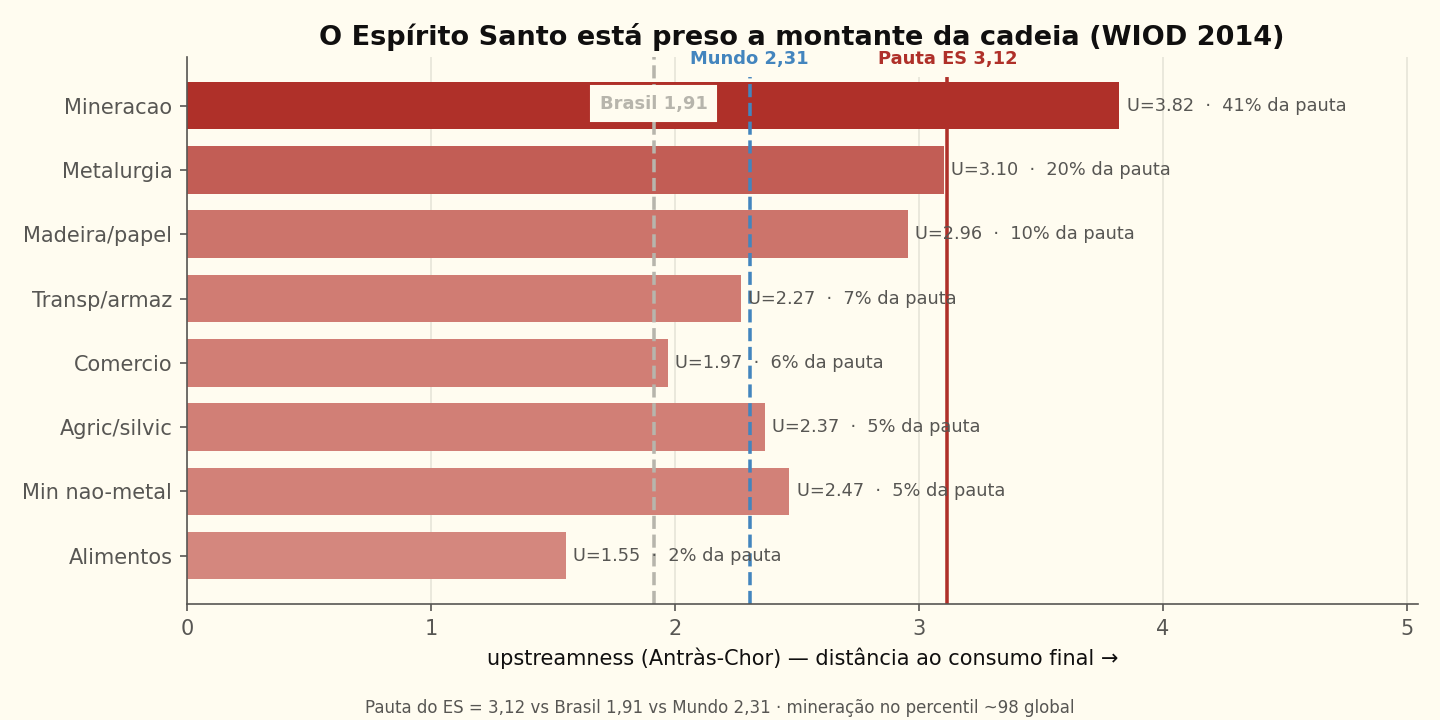
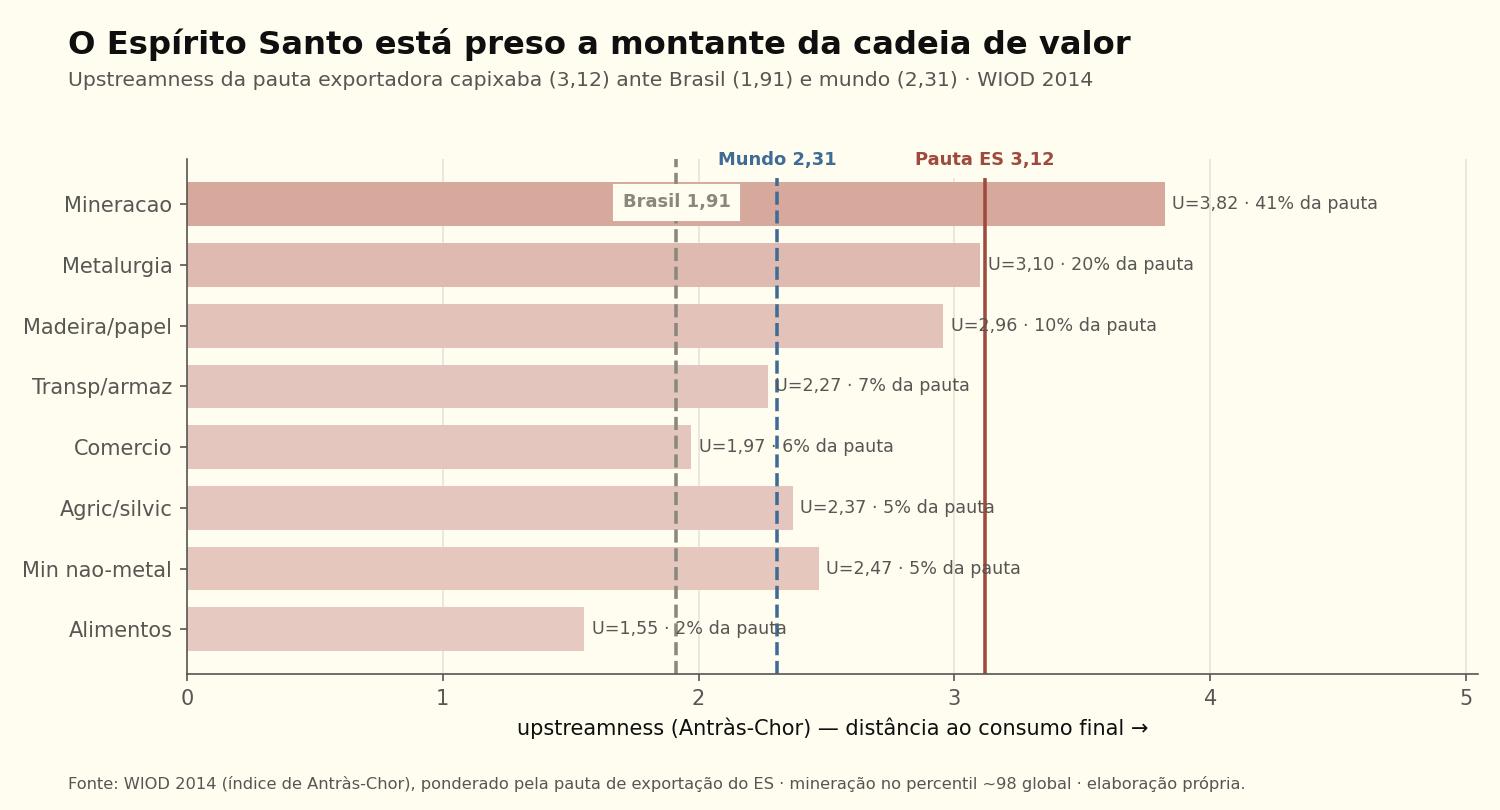
figs: padrao Nexo suave em todas as figuras (paleta Flexoki suave + manchete/dek/fonte)
estilo.py ganha paleta suave NODE/FLOW/TXT por papel e helper nexo() (titulo+dek a esquerda, fonte ao rodape). 03/05/09 re-renderizadas com pasteis suaves, rotulos coloridos por papel e chave de cores na fonte; manchetes declarativas. Consistencia total com o Sankey.

diff --git a/pesquisa/03_fig_spillover.py b/pesquisa/03_fig_spillover.py
@@ -1,48 +1,44 @@
 # -*- coding: utf-8 -*-
-"""Figura: destino do spillover do ES (estados + macrorregião) — tema Flexoki."""
+"""Figura: destino do spillover do ES (estados + macrorregião) — padrão Nexo suave."""
 import os, csv
 import matplotlib; matplotlib.use("Agg")
 import matplotlib.pyplot as plt
 import estilo as st; st.apply()
 
 OUT = r"C:/Users/DELL/Documents/es-insumo-produto/pesquisa/outputs"
-rows = list(csv.DictReader(open(os.path.join(OUT, "es_spillover_destino.csv"), encoding="utf-8")))
-spill = {r["regiao"]: float(r["spillover_RS_mi"]) for r in rows}
+spill = {r["regiao"]: float(r["spillover_RS_mi"]) for r in
+         csv.DictReader(open(os.path.join(OUT, "es_spillover_destino.csv"), encoding="utf-8"))}
 total = sum(spill.values())
-
 NUCLEO = {"SP", "RJ"}; CLUSTER = {"MG", "SC", "PR", "RS", "GO", "MT", "MS"}
-def cor(uf):
-    if uf in NUCLEO: return st.C_NUCLEO
-    if uf in CLUSTER: return st.C_CLUSTER
-    return st.C_RESTO_P
-MACRO = {"Norte": ["AC","AP","AM","PA","RO","RR","TO"],
-         "Nordeste": ["AL","BA","CE","MA","PB","PE","PI","SE","RN"],
-         "Centro-Oeste": ["DF","GO","MT","MS"], "Sudeste\n(ex-ES)": ["MG","RJ","SP"],
-         "Sul": ["PR","SC","RS"]}
+def role(uf): return "NUC" if uf in NUCLEO else ("CLU" if uf in CLUSTER else "RES")
+MACRO = {"Norte": ["AC", "AP", "AM", "PA", "RO", "RR", "TO"],
+         "Nordeste": ["AL", "BA", "CE", "MA", "PB", "PE", "PI", "SE", "RN"],
+         "Centro-Oeste": ["DF", "GO", "MT", "MS"], "Sudeste (ex-ES)": ["MG", "RJ", "SP"],
+         "Sul": ["PR", "SC", "RS"]}
+MROLE = {"Sudeste (ex-ES)": "NUC", "Sul": "CLU", "Nordeste": "RES", "Centro-Oeste": "RES", "Norte": "RES"}
 
 top = sorted(spill.items(), key=lambda kv: kv[1], reverse=True)[:10][::-1]
 macro = sorted([(m, sum(spill[u] for u in ufs)) for m, ufs in MACRO.items()], key=lambda kv: kv[1])
 
-fig, (ax1, ax2) = plt.subplots(1, 2, figsize=(11, 4.5))
-fig.suptitle("Para onde vaza o multiplicador do Espírito Santo (2008)", fontsize=14)
-
+fig, (ax1, ax2) = plt.subplots(1, 2, figsize=(11, 5.2))
 labels = [k for k, _ in top]; vals = [v/total*100 for _, v in top]
-ax1.barh(labels, vals, color=[cor(k) for k in labels], height=0.74)
-for i, v in enumerate(vals):
-    ax1.text(v+0.4, i, f"{v:.1f}%", va="center", fontsize=8.5, color=st.INK_SOFT)
-ax1.set_xlabel("% do spillover do ES"); ax1.set_title("Top destinos (estados)", fontsize=11)
-ax1.set_xlim(0, max(vals)*1.16); ax1.grid(axis="y", visible=False)
+ax1.barh(labels, vals, color=[st.NODE[role(k)] for k in labels], height=0.72)
+for i, (k, v) in enumerate(zip(labels, vals)):
+    ax1.text(v+0.5, i, f"{v:.0f}%", va="center", fontsize=8.6, color=st.TXT[role(k)])
+ax1.set_title("Por estado", loc="left", fontsize=10.5, color=st.INK)
+ax1.set_xlabel("% do spillover do ES"); ax1.set_xlim(0, max(vals)*1.16); ax1.grid(axis="y", visible=False)
 
 ml = [m for m, _ in macro]; mv = [v/total*100 for _, v in macro]
-mc = [st.C_NUCLEO if "Sudeste" in m else (st.C_CLUSTER if m == "Sul" else st.C_RESTO_P) for m in ml]
-ax2.barh(ml, mv, color=mc, height=0.66)
-for i, v in enumerate(mv):
-    ax2.text(v+0.6, i, f"{v:.1f}%", va="center", fontsize=8.5, color=st.INK_SOFT)
-ax2.set_xlabel("% do spillover do ES"); ax2.set_title("Por macrorregião", fontsize=11)
-ax2.set_xlim(0, max(mv)*1.16); ax2.grid(axis="y", visible=False)
+ax2.barh(ml, mv, color=[st.NODE[MROLE[m]] for m in ml], height=0.6)
+for i, (m, v) in enumerate(zip(ml, mv)):
+    ax2.text(v+0.7, i, f"{v:.0f}%", va="center", fontsize=8.6, color=st.TXT[MROLE[m]])
+ax2.set_title("Por macrorregião", loc="left", fontsize=10.5, color=st.INK)
+ax2.set_xlabel("% do spillover do ES"); ax2.set_xlim(0, max(mv)*1.16); ax2.grid(axis="y", visible=False)
 
-fig.text(0.5, 0.01, "Sudeste (ex-ES) absorve 65% do spillover · feedback de volta ao ES ≈ 0,3%",
-         ha="center", fontsize=8.6, color=st.C_NUCLEO)
-fig.tight_layout(rect=[0, 0.04, 1, 0.95])
+st.nexo(fig, "O Sudeste absorve dois terços do que vaza do Espírito Santo",
+        "Destino do spillover de produção do ES, por estado e macrorregião · MIP inter-regional 2008",
+        "Fonte: MIP inter-regional ES × Brasil (2008), modelo de Isard · elaboração própria. "
+        "Azul = núcleo SP/RJ · verde = cluster · cinza = resto.")
+fig.tight_layout(rect=[0, 0.06, 1, 0.84])
 fig.savefig(os.path.join(OUT, "es_spillover_destino.png"))
 print("ok es_spillover_destino.png")

diff --git a/pesquisa/05_fig_cluster.py b/pesquisa/05_fig_cluster.py
@@ -1,5 +1,5 @@
 # -*- coding: utf-8 -*-
-"""Figura: o ES e o cluster de estados dinâmicos (ex-núcleo) — tema Flexoki."""
+"""Figura: o ES no cluster de estados dinâmicos — padrão Nexo suave."""
 import os, csv
 import matplotlib; matplotlib.use("Agg")
 import matplotlib.pyplot as plt
@@ -9,40 +9,37 @@ OUT = r"C:/Users/DELL/Documents/es-insumo-produto/pesquisa/outputs"
 res = {r["metrica"]: float(r["valor_pct"]) for r in
        csv.DictReader(open(os.path.join(OUT, "cluster_resumo.csv"), encoding="utf-8"))}
 states = list(csv.DictReader(open(os.path.join(OUT, "cluster.csv"), encoding="utf-8")))
-CLUSTER = ["SC","PR","ES","MG","RS","GO","MT","MS"]; NUCLEO = ["SP","RJ"]
+CLUSTER = ["SC", "PR", "ES", "MG", "RS", "GO", "MT", "MS"]; NUCLEO = ["SP", "RJ"]
 
-fig, (ax1, ax2) = plt.subplots(1, 2, figsize=(11, 4.5))
-fig.suptitle("O Espírito Santo num cluster de estados dinâmicos (ex-núcleo SP/RJ)", fontsize=13)
+fig, (ax1, ax2) = plt.subplots(1, 2, figsize=(11, 5.2))
 
 # painel 1 — destino do spillover do ES
 labels = ["Núcleo\nSP+RJ", "Resto do\ncluster", "Resto\ndo Brasil"]
 vals = [res["es_spill_nucleo"], res["es_spill_cluster"], res["es_spill_resto"]]
-ax1.bar(labels, vals, color=[st.C_NUCLEO, st.C_CLUSTER, st.C_RESTO_P], width=0.62)
+ax1.bar(labels, vals, color=[st.NODE["NUC"], st.NODE["CLU"], st.NODE["RES"]], width=0.6)
 for i, v in enumerate(vals):
-    ax1.text(i, v+1, f"{v:.1f}%", ha="center", fontsize=11, fontweight="bold", color=st.INK)
-ax1.set_ylabel("% do spillover do ES"); ax1.set_title("Para onde escoa o encadeamento do ES", fontsize=11)
-ax1.set_ylim(0, max(vals)*1.2); ax1.grid(axis="x", visible=False)
-ax1.text(0.5, -0.32, "feedback de volta ao ES ≈ 0  →  encadeamento vai ao núcleo, valor não volta",
-         transform=ax1.transAxes, ha="center", fontsize=8.5, color=st.C_ES)
+    ax1.text(i, v+1, f"{v:.0f}%", ha="center", fontsize=11, fontweight="bold", color=st.INK)
+ax1.set_title("Para onde escoa o encadeamento do ES", loc="left", fontsize=10.5, color=st.INK)
+ax1.set_ylabel("% do spillover do ES"); ax1.set_ylim(0, max(vals)*1.2); ax1.grid(axis="x", visible=False)
 
-# painel 2 — abertura: cluster vs núcleo (ES destacado)
+# painel 2 — abertura: cluster vs núcleo (ES em destaque)
 rows = sorted([(s["estado"], float(s["vazamento_%"])) for s in states
                if s["estado"] in CLUSTER + NUCLEO], key=lambda kv: kv[1])
 ylab = [r[0] for r in rows]; yval = [r[1] for r in rows]
-def cor(uf): return st.C_ES if uf == "ES" else (st.C_NUCLEO if uf in NUCLEO else st.C_CLUSTER)
-ax2.barh(ylab, yval, color=[cor(u) for u in ylab], height=0.72)
+def papel(uf): return "ES" if uf == "ES" else ("NUC" if uf in NUCLEO else "CLU")
+ax2.barh(ylab, yval, color=[st.NODE[papel(u)] for u in ylab], height=0.72)
 for i, (lab, v) in enumerate(zip(ylab, yval)):
-    ax2.text(v+0.3, i, f"{v:.1f}%", va="center", fontsize=8.5,
-             color=(st.C_ES if lab == "ES" else st.INK_SOFT),
+    ax2.text(v+0.3, i, f"{v:.1f}%", va="center", fontsize=8.4, color=st.TXT[papel(lab)],
              fontweight=("bold" if lab == "ES" else "normal"))
 for t in ax2.get_yticklabels():
-    if t.get_text() == "ES": t.set_fontweight("bold"); t.set_color(st.C_ES)
-ax2.set_xlabel("vazamento médio do multiplicador (%)")
-ax2.set_title("Abertura: cluster (verde) vs núcleo (azul) — ES em destaque", fontsize=10.5)
-ax2.set_xlim(0, max(yval)*1.16); ax2.grid(axis="y", visible=False)
+    if t.get_text() == "ES": t.set_fontweight("bold"); t.set_color(st.TXT["ES"])
+ax2.set_title("Abertura: vazamento médio do multiplicador", loc="left", fontsize=10.5, color=st.INK)
+ax2.set_xlabel("%"); ax2.set_xlim(0, max(yval)*1.16); ax2.grid(axis="y", visible=False)
 
-fig.text(0.5, 0.01, "Cluster = 8 estados de crescimento sub-cobertos pelo mercado de capitais "
-         "(leitura Apex Partners) · cluster = 33,9% do PIB 2008", ha="center", fontsize=8.2, color=st.INK_SOFT)
-fig.tight_layout(rect=[0, 0.05, 1, 0.94])
+st.nexo(fig, "No cluster de estados dinâmicos, o ES escoa metade ao núcleo SP/RJ",
+        "Destino do spillover do ES e abertura comparada dos 8 estados do cluster · MIP inter-regional 2008",
+        "Fonte: MIP inter-regional ES × Brasil (2008) · cluster = leitura de mercado da Apex Partners (33,9% do PIB) · "
+        "vermelho = ES · azul = núcleo · verde = cluster · elaboração própria.")
+fig.tight_layout(rect=[0, 0.06, 1, 0.84])
 fig.savefig(os.path.join(OUT, "es_cluster.png"))
 print("ok es_cluster.png")

diff --git a/pesquisa/09_fig_upstreamness.py b/pesquisa/09_fig_upstreamness.py
@@ -1,5 +1,5 @@
 # -*- coding: utf-8 -*-
-"""Figura: o ES preso a montante da cadeia (upstreamness, WIOD 2014) — tema Flexoki."""
+"""Figura: o ES preso a montante da cadeia (upstreamness, WIOD 2014) — padrão Nexo suave."""
 import os, csv
 import matplotlib; matplotlib.use("Agg")
 import matplotlib.pyplot as plt
@@ -9,7 +9,7 @@ import estilo as st; st.apply()
 OUT = r"C:/Users/DELL/Documents/es-insumo-produto/pesquisa/outputs"
 _res = {r["metrica"]: float(r["valor"]) for r in
         csv.DictReader(open(os.path.join(OUT, "upstream_resumo.csv"), encoding="utf-8"))}
-BRASIL, MUNDO = _res["brasil_upstreamness"], _res["mundo_upstreamness"]
+BRASIL, MUNDO, PCT = _res["brasil_upstreamness"], _res["mundo_upstreamness"], _res["mineracao_percentil"]
 allrows = list(csv.DictReader(open(os.path.join(OUT, "es_upstreamness.csv"), encoding="utf-8")))
 rows = [r for r in allrows if r["setor_BR"] != "ES_PAUTA"]
 es_up = float([r for r in allrows if r["setor_BR"] == "ES_PAUTA"][0]["upstreamness"])
@@ -20,26 +20,26 @@ labels = [r["setor_BR"] for r in top]
 ups = [float(r["upstreamness"]) for r in top]
 shares = [float(r["share_export_%"]) for r in top]
 
-cmap = LinearSegmentedColormap.from_list("flexoki_red", [st.RED_P, st.RED])
+cmap = LinearSegmentedColormap.from_list("es_soft", ["#EDD9D3", st.NODE["ES"]])
 maxsh = max(shares)
-fig, ax = plt.subplots(figsize=(9.6, 4.8))
-ax.barh(labels, ups, color=[cmap(0.25 + 0.75*s/maxsh) for s in shares], height=0.74)
+fig, ax = plt.subplots(figsize=(10, 5.4))
+ax.barh(labels, ups, color=[cmap(0.3 + 0.7*s/maxsh) for s in shares], height=0.72)
 for i, (u, s) in enumerate(zip(ups, shares)):
-    ax.text(u+0.03, i, f"U={u:.2f}  ·  {s:.0f}% da pauta", va="center", fontsize=8.5, color=st.INK_SOFT)
+    ax.text(u+0.03, i, f"U={u:.2f} · {s:.0f}% da pauta".replace(".", ","), va="center",
+            fontsize=8.4, color=st.INK_SOFT)
 
 n = len(labels)
-for x, lab, col, ls, yo in [(BRASIL, f"Brasil {BRASIL:.2f}".replace(".", ","), st.GRAY, "--", -1.05),
-                            (MUNDO, f"Mundo {MUNDO:.2f}".replace(".", ","), st.C_NUCLEO, "--", -0.35),
-                            (es_up, f"Pauta ES {es_up:.2f}".replace(".", ","), st.C_ES, "-", -0.35)]:
+for x, lab, col, ls, yo in [(BRASIL, f"Brasil {BRASIL:.2f}".replace(".", ","), st.TXT["RES"], "--", -1.05),
+                            (MUNDO, f"Mundo {MUNDO:.2f}".replace(".", ","), st.TXT["NUC"], "--", -0.35),
+                            (es_up, f"Pauta ES {es_up:.2f}".replace(".", ","), st.TXT["ES"], "-", -0.35)]:
     ax.axvline(x, color=col, linestyle=ls, linewidth=1.7)
     ax.text(x, n+yo, lab, color=col, fontsize=8.6, ha="center", fontweight="bold", backgroundcolor=st.PAPER)
 
 ax.set_xlabel("upstreamness (Antràs-Chor) — distância ao consumo final →")
-ax.set_title("O Espírito Santo está preso a montante da cadeia (WIOD 2014)")
 ax.set_xlim(0, max(ups)*1.32); ax.grid(axis="y", visible=False)
-fig.text(0.5, 0.01, (f"Pauta do ES = {es_up:.2f} vs Brasil {BRASIL:.2f} vs Mundo {MUNDO:.2f} · "
-                     f"mineração no percentil ~{_res['mineracao_percentil']:.0f} global").replace(".", ","),
-         ha="center", fontsize=8, color=st.INK_SOFT)
-fig.tight_layout(rect=[0, 0.04, 1, 1])
+st.nexo(fig, "O Espírito Santo está preso a montante da cadeia de valor",
+        f"Upstreamness da pauta exportadora capixaba ({es_up:.2f}) ante Brasil ({BRASIL:.2f}) e mundo ({MUNDO:.2f}) · WIOD 2014".replace(".", ","),
+        f"Fonte: WIOD 2014 (índice de Antràs-Chor), ponderado pela pauta de exportação do ES · mineração no percentil ~{PCT:.0f} global · elaboração própria.")
+fig.tight_layout(rect=[0, 0.06, 1, 0.84])
 fig.savefig(os.path.join(OUT, "es_upstreamness.png"))
 print("ok es_upstreamness.png")

diff --git a/pesquisa/estilo.py b/pesquisa/estilo.py
@@ -23,6 +23,20 @@ GRAY,   GRAY_P   = "#B7B5AC", "#D6D4CA"   # resto
 C_ES, C_NUCLEO, C_CLUSTER, C_RESTO = RED, BLUE, GREEN, GRAY
 C_ES_P, C_NUCLEO_P, C_CLUSTER_P, C_RESTO_P = RED_P, BLUE_P, GREEN_P, GRAY_P
 
+# paleta SUAVE (padrão editorial Nexo): nó / fluxo / texto, por papel
+NODE = {"ES": "#D7A99D", "NUC": "#8AAAC8", "CLU": "#A9B873", "RES": "#C7C5B8"}
+FLOW = {"ES": "#ECD2CB", "NUC": "#CFDCEA", "CLU": "#DEE3C7", "RES": "#E6E4DB"}
+TXT  = {"ES": "#9E4A3C", "NUC": "#3F6B97", "CLU": "#5E6B2E", "RES": "#8A887C"}
+
+
+def nexo(fig, title, dek="", source="", x=0.045):
+    """Título + dek (subtítulo) à esquerda e nota de fonte ao rodapé (estilo Nexo)."""
+    fig.text(x, 0.965, title, fontsize=15.5, fontweight="bold", color=INK, ha="left", va="top")
+    if dek:
+        fig.text(x, 0.912, dek, fontsize=9.8, color=INK_SOFT, ha="left", va="top")
+    if source:
+        fig.text(x, 0.022, source, fontsize=7.8, color=INK_SOFT, ha="left", va="bottom")
+
 
 def apply():
     plt.rcParams.update({